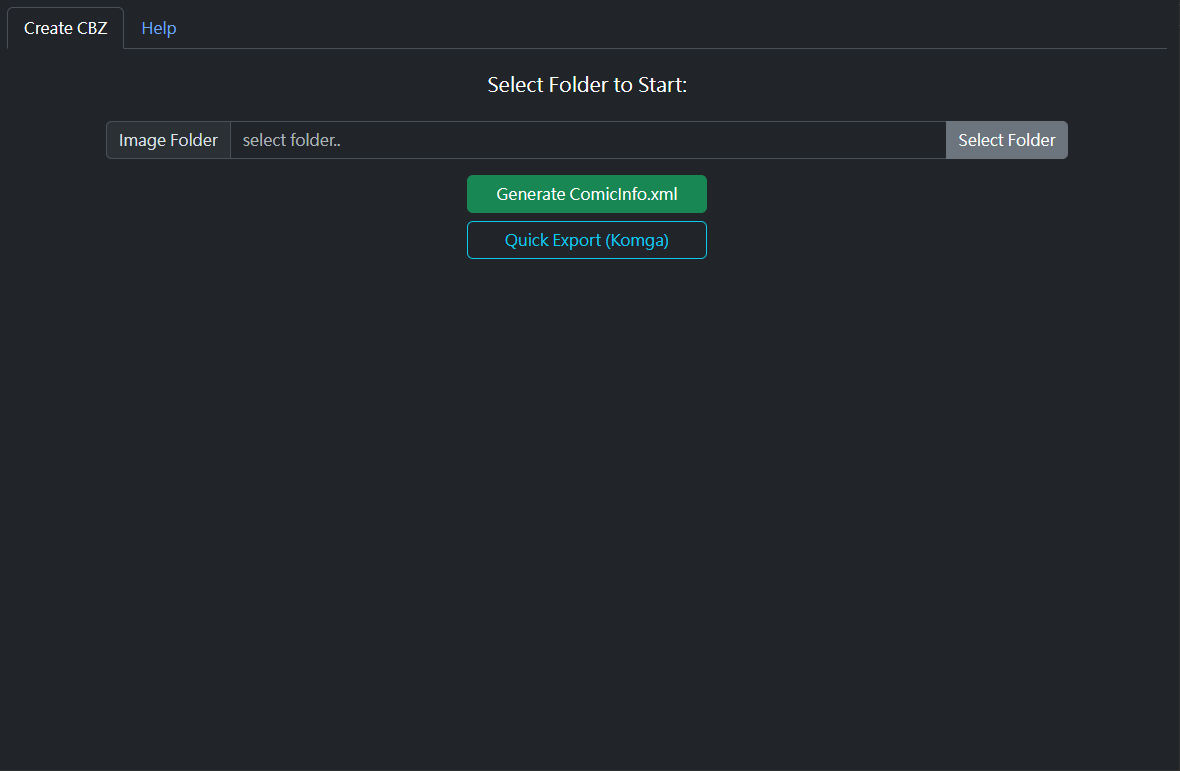
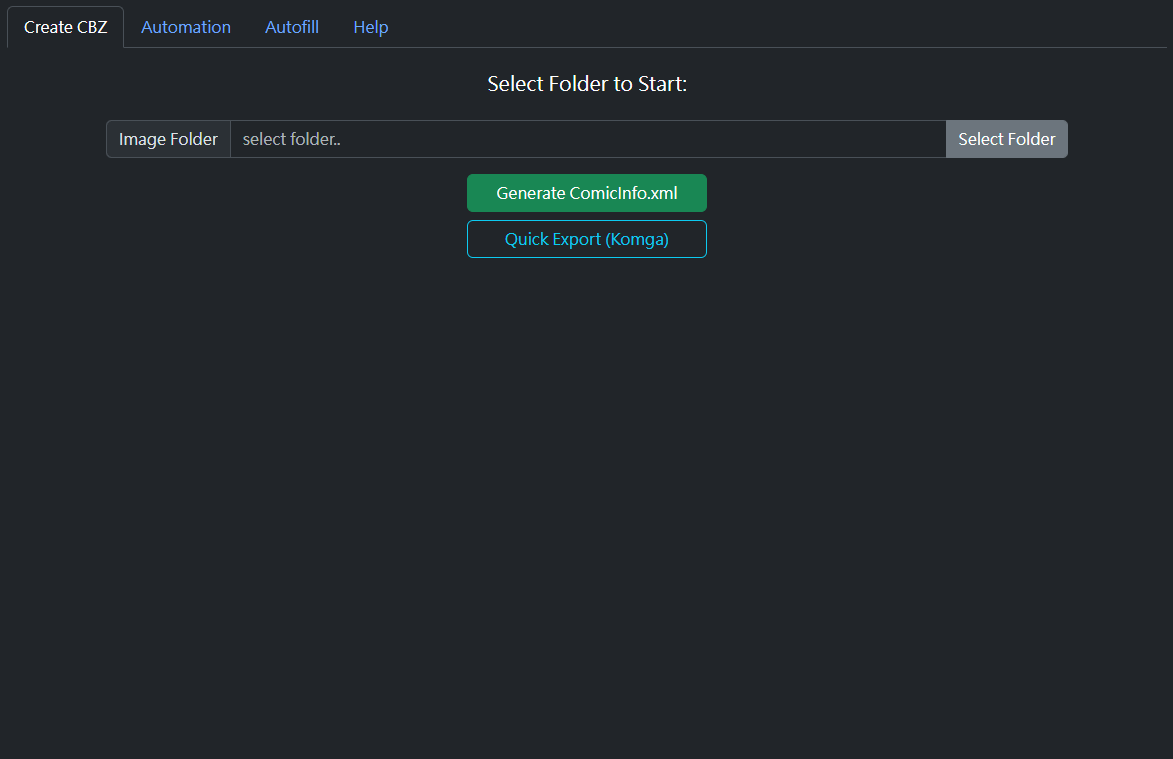
Provide automation for generate `Comicinfo.xml` for all comic folders in given directory (#212)
* Add plain UI for automation
* Impl comic folder walk and binding for automation
* Impl logic to generate Comicinfo.xml automatically
* Complete UI flow for xml generation xml
* Update README for new feature

diff --git a/frontend/bindings/github.com/dark-person/comicinfo-parser/internal/services/comicservice.ts b/frontend/bindings/github.com/dark-person/comicinfo-parser/internal/services/comicservice.ts
@@ -28,6 +28,16 @@ import * as application$0 from "../../../../wailsapp/wails/v3/pkg/application/mo
 import * as $models from "./models.js";
 
 /**
+ * AutoGenerateXML will identify all comic folder by filepath.Walk,
+ * and generate ComicInfo.xml inside.
+ */
+export function AutoGenerateXML(target: string): $CancellablePromise<$models.AutomationResp> {
+    return $Call.ByID(1062949372, target).then(($result: any) => {
+        return $$createType0($result);
+    });
+}
+
+/**
  * Export the .cbz (contains images & comicInfo) file ONLY to destination.
  * 
  * If the process success, then function will output empty string.
@@ -80,7 +90,7 @@ export function ExportXML(originalDir: string, c: comicinfo$0.ComicInfo | null):
  */
 export function GetAllAutofillWord(): $CancellablePromise<store$0.AutofillWord[]> {
     return $Call.ByID(3814231734).then(($result: any) => {
-        return $$createType1($result);
+        return $$createType2($result);
     });
 }
 
@@ -89,7 +99,7 @@ export function GetAllAutofillWord(): $CancellablePromise<store$0.AutofillWord[]
  */
 export function GetAllGenreInput(): $CancellablePromise<$models.HistoryResp> {
     return $Call.ByID(1221561425).then(($result: any) => {
-        return $$createType2($result);
+        return $$createType3($result);
     });
 }
 
@@ -98,7 +108,7 @@ export function GetAllGenreInput(): $CancellablePromise<$models.HistoryResp> {
  */
 export function GetAllPublisherInput(): $CancellablePromise<$models.HistoryResp> {
     return $Call.ByID(2644616864).then(($result: any) => {
-        return $$createType2($result);
+        return $$createType3($result);
     });
 }
 
@@ -107,7 +117,7 @@ export function GetAllPublisherInput(): $CancellablePromise<$models.HistoryResp>
  */
 export function GetAllTagInput(): $CancellablePromise<$models.HistoryResp> {
     return $Call.ByID(4230540944).then(($result: any) => {
-        return $$createType2($result);
+        return $$createType3($result);
     });
 }
 
@@ -127,7 +137,7 @@ export function GetComicFolder(): $CancellablePromise<string> {
  */
 export function GetComicInfo(folder: string): $CancellablePromise<$models.ComicInfoResponse> {
     return $Call.ByID(973440682, folder).then(($result: any) => {
-        return $$createType3($result);
+        return $$createType4($result);
     });
 }
 
@@ -150,7 +160,7 @@ export function GetDefaultOutputDirectory(inputDir: string): $CancellablePromise
  */
 export function GetDirectory(dir: string): $CancellablePromise<$models.DirectoryResp> {
     return $Call.ByID(1982593624, dir).then(($result: any) => {
-        return $$createType4($result);
+        return $$createType5($result);
     });
 }
 
@@ -163,7 +173,7 @@ export function InitDatabase(): $CancellablePromise<void> {
  */
 export function LoadSessionData(): $CancellablePromise<definitions$0.SessionData> {
     return $Call.ByID(2457233093).then(($result: any) => {
-        return $$createType5($result);
+        return $$createType6($result);
     });
 }
 
@@ -216,9 +226,10 @@ export function SetApp(app: application$0.App | null): $CancellablePromise<void>
 }
 
 // Private type creation functions
-const $$createType0 = store$0.AutofillWord.createFrom;
-const $$createType1 = $Create.Array($$createType0);
-const $$createType2 = $models.HistoryResp.createFrom;
-const $$createType3 = $models.ComicInfoResponse.createFrom;
-const $$createType4 = $models.DirectoryResp.createFrom;
-const $$createType5 = definitions$0.SessionData.createFrom;
+const $$createType0 = $models.AutomationResp.createFrom;
+const $$createType1 = store$0.AutofillWord.createFrom;
+const $$createType2 = $Create.Array($$createType1);
+const $$createType3 = $models.HistoryResp.createFrom;
+const $$createType4 = $models.ComicInfoResponse.createFrom;
+const $$createType5 = $models.DirectoryResp.createFrom;
+const $$createType6 = definitions$0.SessionData.createFrom;

diff --git a/frontend/src/views/AutomationView.tsx b/frontend/src/views/AutomationView.tsx
@@ -1,0 +1,82 @@
+import FolderSelector from "@/components/FolderSelector";
+import { type ModalControl } from "@/controls/ModalControl";
+import {
+    AutoGenerateXML,
+    GetComicFolder,
+} from "@bindings/github.com/dark-person/comicinfo-parser/internal/services/comicservice";
+import { useEffect, useState } from "react";
+import { Button } from "react-bootstrap";
+
+type AutomationState = {
+    /** The Directory Absolute Path selected by User. */
+    directory: string;
+};
+
+type AutomationViewProps = {
+    /** Modal State to control display which dialog. */
+    modalController: ModalControl;
+};
+
+/** View for automation jobs. */
+export default function AutomationView({ modalController }: Readonly<AutomationViewProps>) {
+    /** Default directory for comic folder. */
+    const [comicFolder, setComicFolder] = useState<string | undefined>(undefined);
+
+    const [state, setState] = useState<AutomationState>({
+        directory: "",
+    });
+
+    useEffect(() => {
+        void GetComicFolder().then((dir: string) => setComicFolder(dir));
+    }, []);
+
+    function startAutoGenerateComicinfo() {
+        modalController.loading();
+
+        AutoGenerateXML(state.directory)
+            .then((resp) => {
+                console.log(JSON.stringify(resp, null, 4));
+
+                // Check if any error occur
+                if (resp.errorMessage !== "") {
+                    modalController.showErr(resp.errorMessage);
+                    return;
+                }
+
+                // Otherwise, show complete dialog
+                modalController.complete();
+            })
+            .catch((err) => {
+                modalController.showErr(err);
+            });
+    }
+
+    return (
+        <div id="Automation-Panel" className="mt-2 mx-5">
+            <h5 className="mb-4">Automation</h5>
+
+            <p>
+                This will help you to auto generate ComicInfo.xml as possible. This will only add value if file is
+                already exist.
+            </p>
+
+            {/* Folder Chooser */}
+            <FolderSelector
+                id="automation-folder-select"
+                className="mb-3 w-75 mx-auto"
+                label="Input Folder"
+                buttonId="btn-select-automation-folder"
+                directory={state.directory}
+                setDirectory={(str) => setState({ ...state, directory: str })}
+                defaultDirectory={comicFolder}
+            />
+
+            {/* Button Group */}
+            <div className="w-25 mx-auto d-grid gap-2">
+                <Button variant="outline-info" id="btn-quick-export" onClick={startAutoGenerateComicinfo}>
+                    Generate Comicinfo.xml
+                </Button>
+            </div>
+        </div>
+    );
+}

diff --git a/frontend/bindings/github.com/dark-person/comicinfo-parser/internal/services/models.ts b/frontend/bindings/github.com/dark-person/comicinfo-parser/internal/services/models.ts
@@ -9,6 +9,33 @@ import { Create as $Create } from "@wailsio/runtime";
 // @ts-ignore: Unused imports
 import * as comicinfo$0 from "../comicinfo/models.js";
 
+/**
+ * AutomationResp will pass automation result.
+ */
+export class AutomationResp {
+    /**
+     * Error message if any, otherwise is empty
+     */
+    "errorMessage": string;
+
+    /** Creates a new AutomationResp instance. */
+    constructor($$source: Partial<AutomationResp> = {}) {
+        if (!("errorMessage" in $$source)) {
+            this["errorMessage"] = "";
+        }
+
+        Object.assign(this, $$source);
+    }
+
+    /**
+     * Creates a new AutomationResp instance from a string or object.
+     */
+    static createFrom($$source: any = {}): AutomationResp {
+        let $$parsedSource = typeof $$source === 'string' ? JSON.parse($$source) : $$source;
+        return new AutomationResp($$parsedSource as Partial<AutomationResp>);
+    }
+}
+
 export class ComicInfoResponse {
     "ComicInfo": comicinfo$0.ComicInfo | null;
     "ErrorMessage": string;

diff --git a/frontend/src/App.tsx b/frontend/src/App.tsx
@@ -12,6 +12,7 @@ import type { ModalControl } from "@/controls/ModalControl";
 import { defaultModalState, type ModalState } from "@/controls/ModalState";
 import { CreateCbzStatus } from "@/status/CreateCbzStatus";
 import AutofillView from "@/views/AutofillView";
+import AutomationView from "@/views/AutomationView";
 import CreateCbzView from "@/views/CreateCbzView";
 import HelpView from "@/views/HelpView";
 
@@ -69,6 +70,9 @@ function App() {
             <Tabs className="mt-2 mb-3">
                 <Tab eventKey={"create"} title={"Create CBZ"}>
                     <CreateCbzView mode={createMode} setMode={setCreateMode} modalController={modalController} />
+                </Tab>
+                <Tab eventKey={"automation"} title={"Automation"}>
+                    <AutomationView modalController={modalController} />
                 </Tab>
                 <Tab eventKey={"autofill"} title={"Autofill"}>
                     <AutofillView />

diff --git a/frontend/bindings/github.com/dark-person/comicinfo-parser/internal/services/index.ts b/frontend/bindings/github.com/dark-person/comicinfo-parser/internal/services/index.ts
@@ -7,6 +7,7 @@ export {
 };
 
 export {
+    AutomationResp,
     ComicInfoResponse,
     DirectoryResp,
     HistoryResp

diff --git a/internal/services/automations.go b/internal/services/automations.go
@@ -1,0 +1,79 @@
+package services
+
+import (
+	"io/fs"
+	"path/filepath"
+
+	"github.com/dark-person/comicinfo-parser/internal/dircheck"
+	"github.com/rs/zerolog/log"
+)
+
+// AutomationResp will pass automation result.
+type AutomationResp struct {
+	ErrorMessage string `json:"errorMessage"` // Error message if any, otherwise is empty
+}
+
+// findValidComicFolders will find all valid comic folder in target path
+func findValidComicFolders(target string) ([]string, error) {
+	comicFolders := make([]string, 0)
+
+	err := filepath.Walk(target, func(path string, info fs.FileInfo, err error) error {
+		// Ignore non directory
+		if !info.IsDir() {
+			return nil
+		}
+
+		log.Trace().Str("path", path).Msg("Walking")
+
+		// Check if directory fulfill as comic folder
+		isValid, err2 := dircheck.CheckIfComicFolder(path)
+		if err2 != nil {
+			return err2
+		}
+
+		// If it is invalid, then ignore
+		if !isValid {
+			return nil
+		}
+
+		// Marked this directory as it is valid
+		comicFolders = append(comicFolders, path)
+		return nil
+	})
+
+	if err != nil {
+		return []string{}, err
+	}
+
+	return comicFolders, nil
+}
+
+// AutoGenerateXML will identify all comic folder by filepath.Walk,
+// and generate ComicInfo.xml inside.
+func (s *ComicService) AutoGenerateXML(target string) AutomationResp {
+	// First locate all directory that is valid comic folder
+	comicFolders, err := findValidComicFolders(target)
+
+	log.Trace().Strs("folders", comicFolders).Err(err).Send()
+	if err != nil {
+		return AutomationResp{ErrorMessage: err.Error()}
+	}
+
+	// Loop directory
+	for _, path := range comicFolders {
+		// Start generate comicinfo
+		resp := s.GetComicInfo(path)
+		if resp.ErrorMessage != "" {
+			return AutomationResp{ErrorMessage: resp.ErrorMessage}
+		}
+
+		// Save comicinfo
+		err := s.saveComicInfo(path, resp.ComicInfo)
+
+		if err != nil {
+			return AutomationResp{ErrorMessage: err.Error()}
+		}
+	}
+
+	return AutomationResp{ErrorMessage: ""}
+}

diff --git a/README.md b/README.md
@@ -114,6 +114,12 @@ The file structure will be:
 
 User can directly copy `{comic-title}/` folder to `komga` comic directory.
 
+### Automation
+
+Provide method to auto generate Comicinfo.xml for all comic folders in given directory.
+
+![Automation](screenshots/automation.png)
+
 ## Configuration
 
 This program support some customizations by `.yaml` file configuration.
